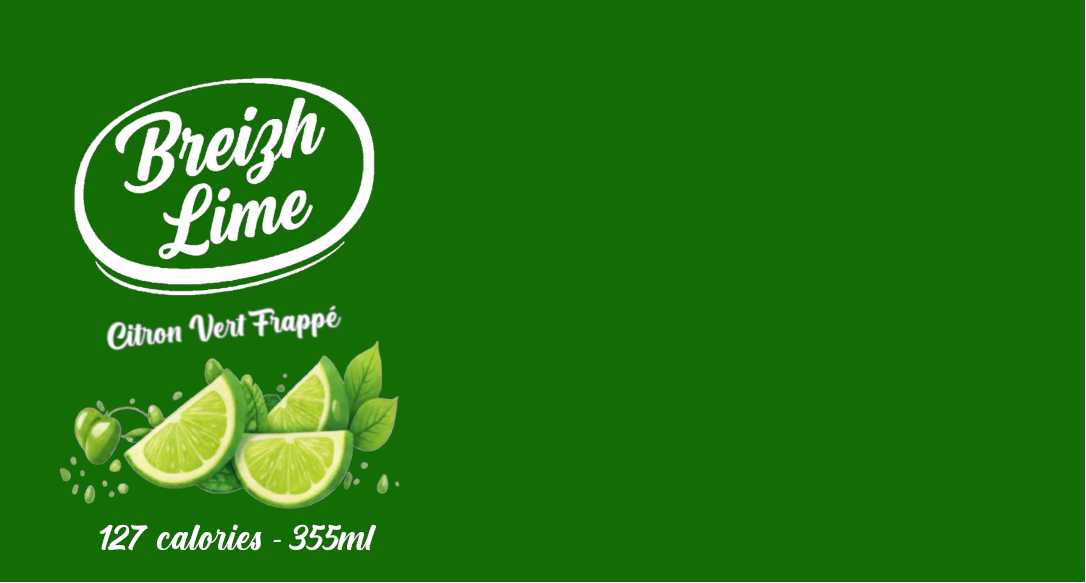
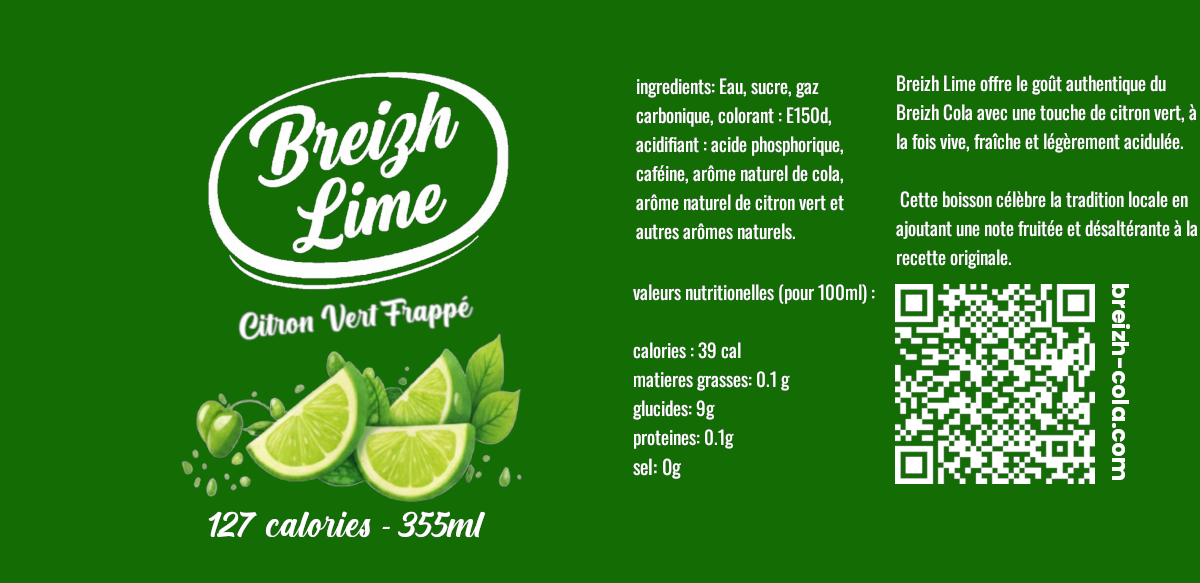
can labels

diff --git a/tps.js b/tps.js
@@ -1,0 +1,82 @@
+ const array ={
+  "breizh_cola_original": {
+    "valeurs_nutritionnelles_100ml": {
+      "calories": "39 cal",
+      "matieres_grasses": "0.1 g",
+      "glucides": "9 g",
+      "proteines": "0.1 g",
+      "sel": "0 g"
+    },
+    "ingredients": "Eau, sucre, gaz carbonique, colorant : E150d, acidifiant : acide phosphorique, caféine, arôme naturel de cola et autres arômes naturels.",
+    "description": [
+      "Breizh Cola offre le goût authentique du cola breton, avec une saveur équilibrée et des bulles fines, à la fois douce et rafraîchissante.",
+      "Inspirée par la Bretagne, cette boisson célèbre la tradition locale en proposant une recette originale au caractère unique et pleinement affirmé.",
+      "Parfaite pour les moments de partage, Breizh Cola allie fraîcheur et plaisir convivial, pour une expérience intense et résolument bretonne."
+    ],
+    "instagram": "@breizh-cola.bzh"
+  },
+  "breizh_cola_cherry": {
+    "valeurs_nutritionnelles_100ml": {
+      "calories": "39 cal",
+      "matieres_grasses": "0.1 g",
+      "glucides": "9 g",
+      "proteines": "0.1 g",
+      "sel": "0 g"
+    },
+    "ingredients": "Eau, sucre, gaz carbonique, colorant : E150d, acidifiant : acide phosphorique, caféine, arôme naturel de cola, arôme naturel de cerise et autres arômes naturels.",
+    "description": [
+      "Breizh Cherry offre le goût authentique du Breizh Cola avec une touche de cerise, à la fois douce, fruitée et intensément rafraîchissante.",
+      "Inspirée par la Bretagne, cette boisson célèbre la tradition locale en ajoutant une note gourmande et subtile à la recette originale.",
+      "Parfaite pour les moments de partage, Breizh Cherry allie fraîcheur et plaisir convivial, pour une expérience unique et bretonne."
+    ],
+    "instagram": "@breizh-cola.bzh"
+  },
+  "breizh_cola_lime": {
+    "valeurs_nutritionnelles_100ml": {
+      "calories": "39 cal",
+      "matieres_grasses": "0.1 g",
+      "glucides": "9 g",
+      "proteines": "0.1 g",
+      "sel": "0 g"
+    },
+    "ingredients": "Eau, sucre, gaz carbonique, colorant : E150d, acidifiant : acide phosphorique, caféine, arôme naturel de cola, arôme naturel de citron vert et autres arômes naturels.",
+    "description": [
+      "Breizh Lime offre le goût authentique du Breizh Cola avec une touche de citron vert, à la fois vive, fraîche et légèrement acidulée.",
+      "Inspirée par la Bretagne, cette boisson célèbre la tradition locale en ajoutant une note fruitée et désaltérante à la recette originale.",
+      "Parfaite pour les moments de partage, Breizh Lime allie fraîcheur intense et plaisir convivial, pour une expérience unique et bretonne."
+    ],
+    "instagram": "@breizh-cola.bzh"
+  },
+  "breizh_cola_zero": {
+    "valeurs_nutritionnelles_100ml": {
+      "calories": "3 cal",
+      "matieres_grasses": "0.1 g",
+      "glucides": "0 g",
+      "proteines": "0 g",
+      "sel": "0 g"
+    },
+    "ingredients": "Eau, gaz carbonique, colorant : E150d, acidifiants : acide phosphorique, acide citrique, caféine, arômes naturels, édulcorants : aspartame et acésulfame K.",
+    "description": [
+      "Breizh Cola Zéro offre le goût authentique du Breizh Cola sans sucre, avec une saveur équilibrée et une fraîcheur intacte.",
+      "Inspirée par la Bretagne, cette boisson célèbre la tradition locale dans une version légère, sans compromis sur le plaisir.",
+      "Parfaite pour les moments de partage, Breizh Cola Zéro allie fraîcheur et caractère, pour une expérience unique et bretonne."
+    ],
+    "instagram": "@breizh-cola.bzh"
+  },
+  "breizh_cola_coffee": {
+    "valeurs_nutritionnelles_100ml": {
+      "calories": "39 cal",
+      "matieres_grasses": "0.1 g",
+      "glucides": "9 g",
+      "proteines": "0.1 g",
+      "sel": "0 g"
+    },
+    "ingredients": "Eau, sucre, gaz carbonique, colorant : E150d, acidifiant : acide phosphorique, caféine, arôme naturel de cola, arôme naturel de café et autres arômes naturels.",
+    "description": [
+      "Breizh Coffee offre le goût authentique du Breizh Cola avec une touche de café, à la fois intense, douce et légèrement torréfiée.",
+      "Inspirée par la Bretagne, cette boisson célèbre la tradition locale en ajoutant une note riche et aromatique à la recette originale.",
+      "Parfaite pour les moments de partage, Breizh Coffee allie fraîcheur et caractère, pour une expérience unique et bretonne."
+    ],
+    "instagram": "@breizh-cola.bzh"
+  }
+}

diff --git a/components/Marquee2.tsx b/components/Marquee2.tsx
@@ -1,0 +1,112 @@
+"use client";
+import { useGSAP } from "@gsap/react";
+import gsap from "gsap";
+import ScrollTrigger from "gsap/ScrollTrigger";
+import { useRef } from "react";
+
+interface MarqueeProps {
+  initialDirection?: number;
+  speed?: number;
+  sentence?: string;
+  data?: any;
+  bgColor?: string;
+}
+
+const Marquee = ({
+  initialDirection = 1,
+  speed = 1,
+  sentence,
+  data,
+  bgColor = "#591420",
+}: MarqueeProps) => {
+  const firstText = useRef<HTMLParagraphElement>(null);
+  const secondText = useRef<HTMLParagraphElement>(null);
+  const slider = useRef<HTMLDivElement>(null);
+
+  let xPercent = 0;
+  let direction = -1;
+  // eslint-disable-next-line @typescript-eslint/no-unused-vars
+  let animationFrameId: number | null = null;
+
+  const setSecondTextPosition = () => {
+    if (secondText.current) {
+      gsap.set(secondText.current, {
+        left: secondText.current.getBoundingClientRect().width, // Recalculate text position
+      });
+    }
+  };
+
+  const animate = () => {
+    if (firstText.current && secondText.current) {
+      if (xPercent < -100) {
+        xPercent = 0;
+      } else if (xPercent > 0) {
+        xPercent = -100;
+      }
+
+      gsap.set([firstText.current, secondText.current], { xPercent: xPercent });
+      xPercent += 0.05 * speed * direction; // Adjust scrolling speed based on direction
+    }
+
+    animationFrameId = requestAnimationFrame(animate);
+  };
+
+  useGSAP(() => {
+    gsap.registerPlugin(ScrollTrigger);
+
+    // Set the position of the second text initially
+    setSecondTextPosition();
+
+    // ScrollTrigger controlling the marquee direction based on scroll
+    gsap.to(slider.current, {
+      scrollTrigger: {
+        trigger: document.documentElement, // Trigger on full document scroll
+        scrub: 0.5,
+        start: "top bottom",
+        end: "bottom top",
+        // pinSpacer: false,
+        onUpdate: (e) => (direction = e.direction * initialDirection), // Update direction
+      },
+    });
+
+    // Start the marquee animation
+    animate();
+
+    // Listen for window resize and update text position
+    const handleResize = () => {
+      setSecondTextPosition();
+    };
+    window.addEventListener("resize", handleResize);
+
+    // Cleanup on unmount
+  }, []);
+
+  return (
+    <div
+      style={{ backgroundColor: bgColor }}
+      className="text-secondary border-secondary border-y-2"
+    >
+      <div
+        className={
+          "relative flex h-[8vh] w-full overflow-hidden sm:h-[10vh] lg:h-25 xl:h-32.5"
+        }
+      >
+        <div className="absolute top-1/2 z-10 -translate-x-3 -translate-y-1/2">
+          <div
+            ref={slider}
+            className="font-poppins relative text-3xl whitespace-nowrap capitalize sm:text-5xl lg:text-6xl xl:text-7xl"
+          >
+            <p className="relative m-0 pr-5" ref={firstText}>
+              {sentence}
+            </p>
+            <p className="absolute top-0 left-full m-0 pr-5" ref={secondText}>
+              {sentence}
+            </p>
+          </div>
+        </div>
+      </div>
+    </div>
+  );
+};
+
+export default Marquee;
